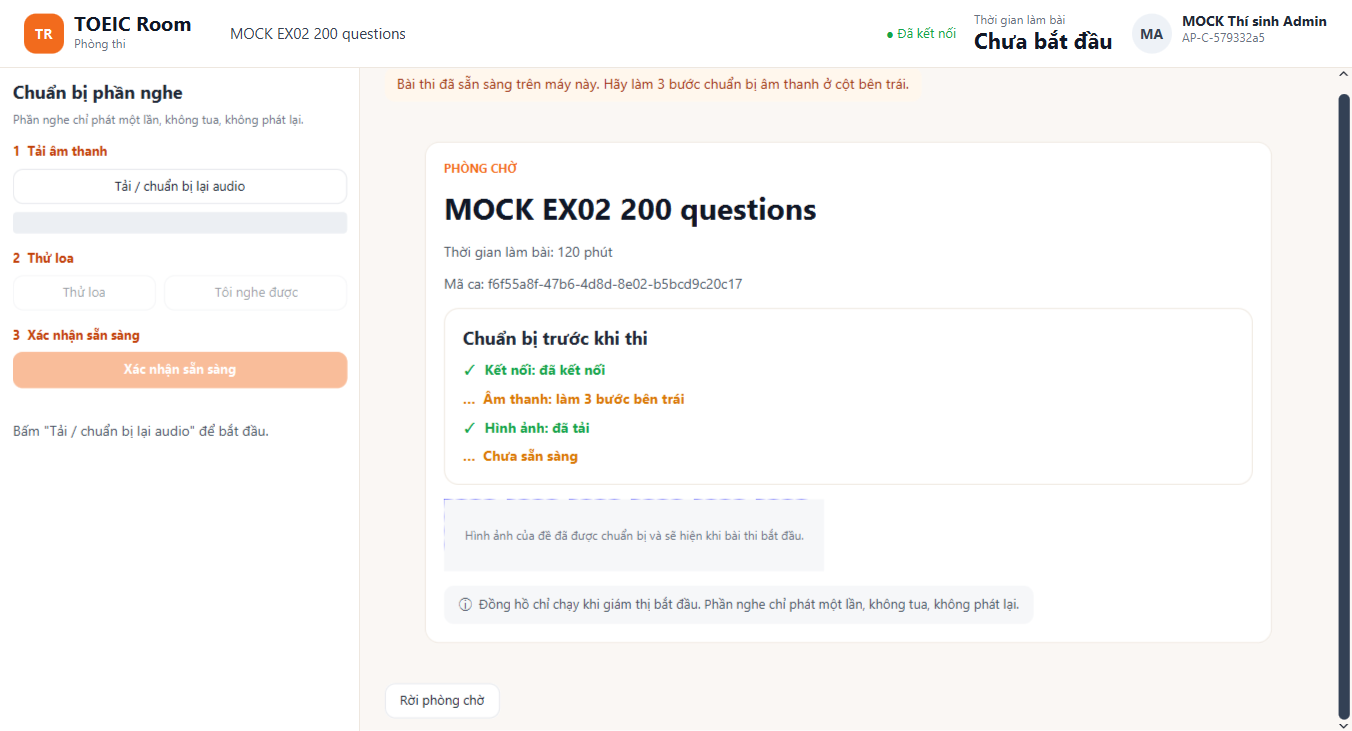
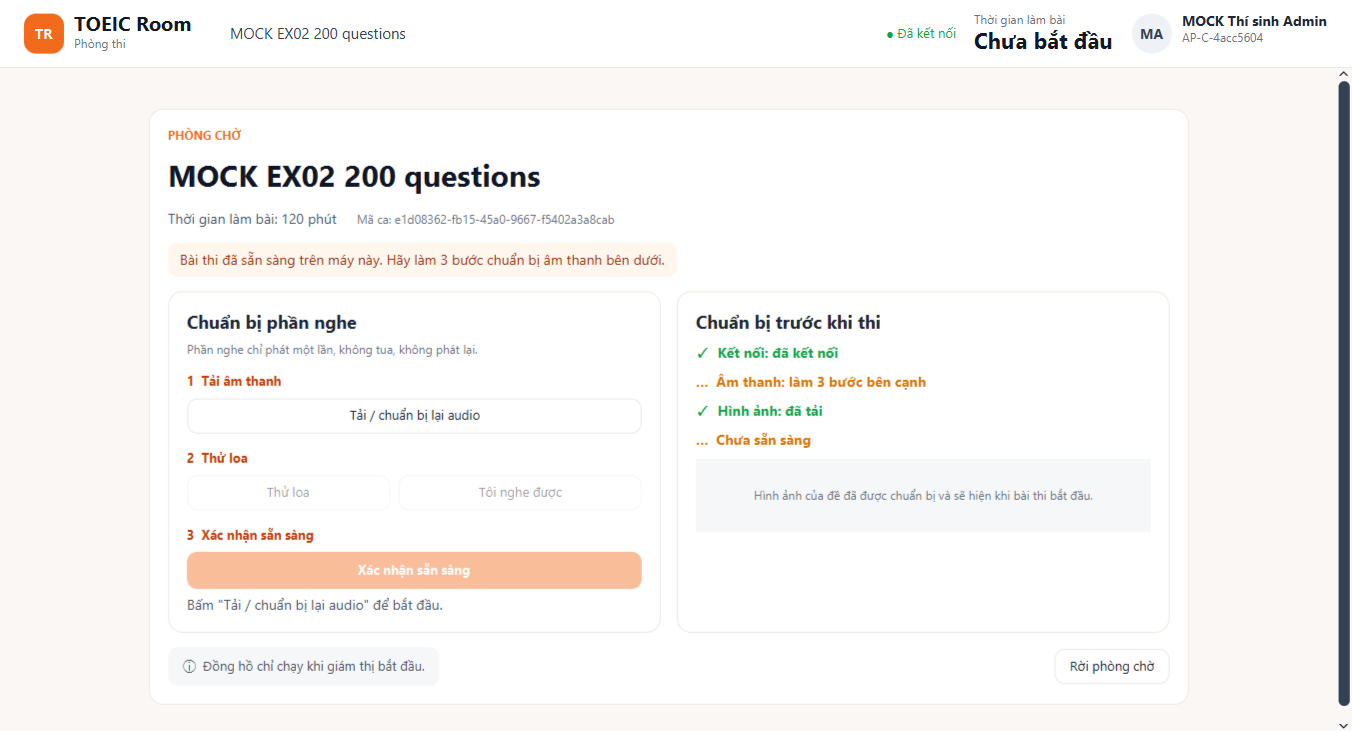
Centre the PIN entry and put audio steps inside the lobby card
The PIN screen is one centred column (steps, card, monitoring notice).
The lobby shows the three audio steps and the readiness checklist as two
equal cards, with the attempt status and the leave button inside the
lobby card, centred in the window. The image cover overhangs by 1px so
fractional scaling cannot show an image edge.

diff --git a/client/src/main/resources/toeic-room.css b/client/src/main/resources/toeic-room.css
@@ -161,12 +161,10 @@
 .toeic-room .room-check-wait { -fx-text-fill: #d97706; -fx-font-weight: 700; }
 .toeic-room .room-check-bad { -fx-text-fill: #dc2626; -fx-font-weight: 700; }
 .toeic-room .room-visual-cover { -fx-background-color: #f6f7f9; -fx-background-radius: 0; }
-.toeic-room .room-audio-panel { -fx-background-color: #ffffff; -fx-padding: 12; -fx-border-color: transparent #eee7df transparent transparent; }
-/* The app-wide dark stylesheet must not leak into the light room: viewport, buttons and progress stay light. */
-.toeic-room .room-audio-panel > .viewport, .toeic-room .room-audio-panel .vbox { -fx-background-color: #ffffff; }
-.toeic-room .room-audio-panel .button { -fx-background-color: #ffffff; -fx-border-color: #e5e7eb; -fx-border-radius: 10; -fx-text-fill: #1f2937; }
-.toeic-room .room-audio-panel .button.room-button-primary { -fx-background-color: #f26b1d; -fx-border-color: #f26b1d; -fx-text-fill: white; }
-.toeic-room .room-audio-panel .button:disabled { -fx-opacity: 0.45; }
-.toeic-room .room-audio-panel .progress-bar > .bar { -fx-background-color: #f26b1d; -fx-background-insets: 0; -fx-background-radius: 4; }
-.toeic-room .room-audio-panel .progress-bar > .track { -fx-background-color: #eceff3; -fx-background-radius: 4; }
+/* Audio preparation card inside the lobby; the app-wide dark stylesheet must not leak into it. */
+.toeic-room .room-audio-card .button { -fx-background-color: #ffffff; -fx-border-color: #e5e7eb; -fx-border-radius: 10; -fx-text-fill: #1f2937; -fx-pref-height: 38; }
+.toeic-room .room-audio-card .button.room-button-primary { -fx-background-color: #f26b1d; -fx-border-color: #f26b1d; -fx-text-fill: white; }
+.toeic-room .room-audio-card .button:disabled { -fx-opacity: 0.45; }
+.toeic-room .room-audio-card .progress-bar > .bar { -fx-background-color: #f26b1d; -fx-background-insets: 0; -fx-background-radius: 4; }
+.toeic-room .room-audio-card .progress-bar > .track { -fx-background-color: #eceff3; -fx-background-radius: 4; }
 .toeic-room .room-step-title { -fx-font-weight: 800; -fx-font-size: 13px; -fx-text-fill: #c2410c; -fx-padding: 8 0 0 0; }

diff --git a/client/src/main/resources/login/home.css b/client/src/main/resources/login/home.css
@@ -36,4 +36,10 @@
 .candidate-home .home-connection.home-online { -fx-text-fill: #118b68; }
 .candidate-home .home-connection.home-offline { -fx-text-fill: #b14f2b; }
 .candidate-home .home-section-title { -fx-font-size: 20px; -fx-font-weight: bold; -fx-text-fill: #102648; }
-.candidate-home #account-pin-input { -fx-font-size: 22px; -fx-max-width: 260; }
+.candidate-home .home-pin-card {
+    -fx-background-color: white; -fx-background-radius: 16; -fx-border-color: #e3e7ee; -fx-border-radius: 16;
+    -fx-padding: 32 36; -fx-effect: dropshadow(gaussian, rgba(16,38,72,0.08), 18, 0, 0, 4);
+}
+.candidate-home #account-pin-input { -fx-font-size: 28px; -fx-alignment: center; -fx-pref-height: 56; }
+.candidate-home #account-pin-enter { -fx-pref-height: 46; -fx-font-size: 16px; }
+.candidate-home .home-pin-status { -fx-text-fill: #607495; -fx-text-alignment: center; }

diff --git a/client/src/main/java/vn/edu/toeic/client/exam/rich/RichLobbyPane.java b/client/src/main/java/vn/edu/toeic/client/exam/rich/RichLobbyPane.java
@@ -4,6 +4,7 @@ import java.util.*;
 import java.util.concurrent.CompletableFuture;
 import javafx.geometry.Insets;
 import javafx.geometry.Pos;
+import javafx.scene.Node;
 import javafx.scene.control.Label;
 import javafx.scene.image.Image;
 import javafx.scene.image.ImageView;
@@ -25,6 +26,9 @@ final class RichLobbyPane extends VBox {
     private final Label audioRow = new Label(), visualRow = new Label(), serverRow = new Label(), connectionRow = new Label();
     private final Label waiting = new Label();
     private final TilePane slots = new TilePane(6, 6);
+    private final VBox audioSlot = new VBox(8);
+    private final VBox card = new VBox(14);
+    private final HBox footer = new HBox(12);
     private VisiblePulseGate gate;
 
     RichLobbyPane() {
@@ -34,14 +38,13 @@ final class RichLobbyPane extends VBox {
         title.setWrapText(true);
         meta.getStyleClass().add("room-instruction");
         identity.setId("room-preparation-identity");
-        identity.getStyleClass().add("room-instruction");
+        identity.getStyleClass().add("room-muted");
         identity.setWrapText(true);
         identity.setMinHeight(Region.USE_PREF_SIZE);
         Label overline = new Label("PHÒNG CHỜ");
         overline.getStyleClass().add("room-overline");
         VBox checklist = new VBox(10, label("Chuẩn bị trước khi thi", "room-card-title"), connectionRow, audioRow, visualRow, serverRow);
         for (Label row : List.of(connectionRow, audioRow, visualRow, serverRow)) { row.setWrapText(true); row.setMinHeight(Region.USE_PREF_SIZE); }
-        checklist.getStyleClass().add("room-card");
 
         slots.setPrefColumns(6);
         slots.setPrefTileWidth(56); slots.setPrefTileHeight(56);
@@ -52,12 +55,16 @@ final class RichLobbyPane extends VBox {
         coverText.setWrapText(true);
         StackPane stage = new StackPane(slots, cover, coverText);
         stage.setId("room-visual-stage");
-        stage.setMinSize(380, 72); stage.setMaxSize(380, 72);
+        stage.setMinSize(380, 72); stage.setMaxSize(Double.MAX_VALUE, 72);
         // Cắt mọi thứ ngoài khung để không pixel ảnh nào lọt ra ngoài màn che (kể cả ở góc).
         javafx.scene.shape.Rectangle clip = new javafx.scene.shape.Rectangle(380, 72);
+        clip.widthProperty().bind(stage.widthProperty());
+        clip.heightProperty().bind(stage.heightProperty());
         stage.setClip(clip);
         // Màn che phủ toàn bộ ảnh; ảnh vẫn visible/opacity 1 trong scene để đo hiển thị thật.
         cover.setMouseTransparent(true);
+        // Overhang by 1px so pixel snapping at fractional scales cannot leave an image edge showing; the clip trims it.
+        StackPane.setMargin(cover, new Insets(-1));
 
         waiting.getStyleClass().add("room-warning");
         waiting.setWrapText(true);
@@ -65,15 +72,41 @@ final class RichLobbyPane extends VBox {
         waiting.setMinHeight(Region.USE_PREF_SIZE);
         waiting.managedProperty().bind(waiting.textProperty().isNotEmpty());
         waiting.visibleProperty().bind(waiting.textProperty().isNotEmpty());
-        Label rules = new Label("ⓘ  Đồng hồ chỉ chạy khi giám thị bắt đầu. Phần nghe chỉ phát một lần, không tua, không phát lại.");
+        // The listening rule is already at the top of the audio card; here only the clock rule.
+        Label rules = new Label("ⓘ  Đồng hồ chỉ chạy khi giám thị bắt đầu.");
         rules.getStyleClass().add("room-info");
         rules.setWrapText(true);
         rules.setMinHeight(Region.USE_PREF_SIZE);
-        VBox card = new VBox(14, overline, title, meta, identity, checklist, stage, waiting, rules);
+        // Two equal cards side by side: what the candidate does (audio steps) and what is ready (checklist).
+        audioSlot.getChildren().add(label("Đang mở bài thi…", "room-muted"));
+        audioSlot.getStyleClass().addAll("room-card", "room-audio-card");
+        checklist.getChildren().addAll(stage, waiting);
+        checklist.getStyleClass().add("room-card");
+        HBox steps = new HBox(16, audioSlot, checklist);
+        for (VBox half : List.of(audioSlot, checklist)) { HBox.setHgrow(half, Priority.ALWAYS); half.setPrefWidth(480); half.setMaxWidth(Double.MAX_VALUE); }
+        HBox facts = new HBox(20, meta, identity);
+        facts.setAlignment(Pos.BASELINE_LEFT);
+        Region gap = new Region();
+        HBox.setHgrow(gap, Priority.ALWAYS);
+        footer.getChildren().addAll(rules, gap);
+        footer.setAlignment(Pos.CENTER_LEFT);
+        card.getChildren().addAll(overline, title, facts, steps, footer);
         card.getStyleClass().add("room-card");
-        card.setMaxWidth(900);
-        setAlignment(Pos.TOP_CENTER);
+        card.setMaxWidth(1040);
+        setAlignment(Pos.CENTER);
         getChildren().add(card);
+    }
+
+    /** The attempt's status line goes under the title and its leave button at the card's bottom-right. */
+    void chrome(Node status, Node leave) {
+        card.getChildren().add(3, status);
+        footer.getChildren().add(leave);
+    }
+
+    /** Puts the one audio preparation view inside the lobby; it keeps running after START when the lobby is gone. */
+    void audio(Node view) {
+        audioSlot.getChildren().setAll(view);
+        VBox.setVgrow(view, Priority.ALWAYS);
     }
 
     void preparation(AttemptPreparation preparation) {
@@ -91,7 +124,7 @@ final class RichLobbyPane extends VBox {
     void audio(AudioPreparation.Snapshot state, boolean ready) {
         row(audioRow, ready, state.phase() == AudioPreparation.Phase.ERROR,
                 ready ? "Âm thanh: đã sẵn sàng" : state.phase() == AudioPreparation.Phase.ERROR
-                        ? "Âm thanh: chưa chuẩn bị xong — làm lại các bước bên trái" : "Âm thanh: làm 3 bước bên trái");
+                        ? "Âm thanh: chưa chuẩn bị xong — làm lại các bước bên cạnh" : "Âm thanh: làm 3 bước bên cạnh");
     }
 
     void visual(VisualReadyCoordinator.Snapshot state) {

diff --git a/client/src/main/java/vn/edu/toeic/client/CandidateHomePane.java b/client/src/main/java/vn/edu/toeic/client/CandidateHomePane.java
@@ -11,8 +11,9 @@ import javafx.scene.layout.*;
 
 /** Candidate portal presentation. Session data and entry actions still come from the server adapters. */
 final class CandidateHomePane extends BorderPane {
+    /** body is the role-specific content: the legacy tab pane, or the centred PIN card of the ACCOUNT_PIN entry. */
     CandidateHomePane(String displayName, String username, Label connection, Label availability,
-                      TabPane tabs, Button logout) {
+                      javafx.scene.Node body, Button logout) {
         getStyleClass().add("candidate-home");
         getStylesheets().add(Objects.requireNonNull(getClass().getResource("/login/home.css")).toExternalForm());
         Label brand = text("TOEIC Room", "home-brand");
@@ -53,19 +54,34 @@ final class CandidateHomePane extends BorderPane {
         availability.managedProperty().bind(availability.textProperty().isNotEmpty());
         availability.visibleProperty().bind(availability.textProperty().isNotEmpty());
         Label instruction = text("1  Vào phòng thi     →     2  Chuẩn bị âm thanh     →     3  Chờ giám thị bắt đầu", "home-instruction");
-        tabs.getStyleClass().add("home-tabs");
-        VBox content = new VBox(12, availability, instruction, tabs);
+        Label usbNotice = null;
         if (Boolean.getBoolean("toeic.monitoring.signal-experiment-enabled")
                 && Boolean.getBoolean("toeic.monitoring.usb-enabled")) {
             // Required notice before observation starts: short, but it still says what is observed and when it stops.
-            Label usbNotice = text("ⓘ  Trong phiên thi, ứng dụng ghi nhận các ứng dụng đang mở, việc cắm/rút USB lưu trữ và việc "
+            usbNotice = text("ⓘ  Trong phiên thi, ứng dụng ghi nhận các ứng dụng đang mở, việc cắm/rút USB lưu trữ và việc "
                     + "rời khỏi cửa sổ thi để báo cho giám thị. Không đọc nội dung hay số serial của USB; dừng khi bạn rời phòng "
                     + "thi hoặc đăng xuất.", "home-availability");
             usbNotice.setId("candidate-usb-notice");
-            content.getChildren().add(2, usbNotice);
+        }
+        VBox content;
+        if (body instanceof TabPane tabs) {
+            tabs.getStyleClass().add("home-tabs");
+            content = new VBox(12, availability, instruction, body);
+            if (usbNotice != null) content.getChildren().add(2, usbNotice);
+            VBox.setVgrow(body, Priority.ALWAYS);
+        } else {
+            // PIN entry: one column in the middle of the screen, the steps above the card and the notice under it.
+            content = new VBox(18, availability, instruction, body);
+            if (usbNotice != null) content.getChildren().add(usbNotice);
+            for (Label line : java.util.Arrays.asList(availability, usbNotice)) {
+                if (line == null) continue;
+                line.setMaxWidth(520); line.setPrefWidth(520);
+                line.setTextAlignment(javafx.scene.text.TextAlignment.CENTER);
+            }
+            content.setAlignment(javafx.geometry.Pos.CENTER);
+            content.setFillWidth(false);
         }
         content.setPadding(new Insets(24));
-        VBox.setVgrow(tabs, Priority.ALWAYS);
         content.setMinWidth(0);
         HBox.setHgrow(content, Priority.ALWAYS);
         setCenter(new HBox(hero, content));

diff --git a/client/src/main/java/vn/edu/toeic/client/ToeicClientApplication.java b/client/src/main/java/vn/edu/toeic/client/ToeicClientApplication.java
@@ -181,15 +181,19 @@ public final class ToeicClientApplication extends Application {
         pin.setTextFormatter(new javafx.scene.control.TextFormatter<String>(change->change.getControlNewText().matches("[0-9]{0,5}")?change:null));
         Button enter=new Button("Vào phòng");enter.setId("account-pin-enter");enter.getStyleClass().add("home-primary");
         Label status=new Label("Nhập PIN 5 số do giám thị cung cấp.");status.setId("account-pin-status");status.setWrapText(true);
+        status.getStyleClass().add("home-pin-status");
         Label joinTitle=new Label("Vào phòng thi");joinTitle.getStyleClass().add("home-section-title");
-        VBox fields=new VBox(14,joinTitle,pin,enter,status);fields.setPadding(new javafx.geometry.Insets(24));
+        pin.setMaxWidth(Double.MAX_VALUE);enter.setMaxWidth(Double.MAX_VALUE);
+        // One small card in the middle of the content area: the only thing to do here is type the PIN.
+        VBox card=new VBox(16,joinTitle,pin,enter,status);card.getStyleClass().add("home-pin-card");
+        card.setAlignment(javafx.geometry.Pos.CENTER);card.setMaxWidth(420);card.setMaxHeight(javafx.scene.layout.Region.USE_PREF_SIZE);
         if(LegacyUi.enabled()) {
             Button legacy=new Button("Ca thi được phân công trước đây");legacy.setOnAction(e->showRoleScene(stage,serverUrl,account));
-            fields.getChildren().add(legacy);
+            card.getChildren().add(legacy);
         }
-        Tab tab=new Tab("Vào phòng",fields);tab.setClosable(false);TabPane tabs=new TabPane(tab);
+        javafx.scene.layout.StackPane centred=new javafx.scene.layout.StackPane(card);
         Button logout=new Button("Đăng xuất");logout.setOnAction(e->{releaseConnectionView();stage.setScene(loginScene(stage));});
-        var root=new CandidateHomePane(account.user().displayName(),account.user().username(),new Label("Đã đăng nhập"),new Label(""),tabs,logout);
+        var root=new CandidateHomePane(account.user().displayName(),account.user().username(),new Label("Đã đăng nhập"),new Label(""),centred,logout);
         stage.setScene(applyStyles(new Scene(root,1366,820)));
         Runnable submit=()->{
             if(enter.isDisabled())return;

diff --git a/client/src/main/java/vn/edu/toeic/client/exam/rich/RichAttemptView.java b/client/src/main/java/vn/edu/toeic/client/exam/rich/RichAttemptView.java
@@ -89,10 +89,14 @@ public final class RichAttemptView extends BorderPane implements AutoCloseable {
         Button leave = new Button("Rời phòng chờ");
         leave.getStyleClass().add("room-button-secondary");
         leave.setOnAction(event -> leave());
-        VBox center = new VBox(12, status, lobby, leave);
+        lobby.chrome(status, leave);
+        VBox center = new VBox(lobby);
+        center.setAlignment(javafx.geometry.Pos.CENTER);
         center.setPadding(new Insets(12, 24, 12, 24));
         ScrollPane scroll = new ScrollPane(center);
         scroll.setFitToWidth(true);
+        // Fills the viewport so the lobby card sits in the middle; a taller lobby still scrolls.
+        scroll.setFitToHeight(true);
         scroll.getStyleClass().add("room-scroll");
         setCenter(scroll);
         status.setText("Đang mở bài thi…");
@@ -124,14 +128,10 @@ public final class RichAttemptView extends BorderPane implements AutoCloseable {
             writer = granted.writerEpoch();
             audio = audioFactory.create(writer, source::listeningApi, this::awaitPlay);
             audio.onChanged(this::audioChanged);
-            ScrollPane audioPanel = new ScrollPane(audio);
-            audioPanel.setFitToWidth(true);
-            audioPanel.setPrefWidth(360);
-            audioPanel.getStyleClass().add("room-audio-panel");
-            setLeft(audioPanel);
+            lobby.audio(audio);
             visual = new VisualReadyCoordinator<>(api, images, attemptId, writer, () -> audio.audioReady().filter(c -> c.writerEpoch() == writer).isPresent(),
                     lobby::prepareImages, Platform::runLater, this::visualChanged);
-            status.setText("Bài thi đã sẵn sàng trên máy này. Hãy làm 3 bước chuẩn bị âm thanh ở cột bên trái.");
+            status.setText("Bài thi đã sẵn sàng trên máy này. Hãy làm 3 bước chuẩn bị âm thanh bên dưới.");
             visual.start();
         }));
     }

diff --git a/client/src/main/java/vn/edu/toeic/client/audio/AudioPreparationView.java b/client/src/main/java/vn/edu/toeic/client/audio/AudioPreparationView.java
@@ -79,6 +79,8 @@ public final class AudioPreparationView extends VBox implements AutoCloseable {
         setSpacing(8);
         attempts.getItems().setAll(scope.stream().sorted().toList()); attempts.getSelectionModel().selectFirst();
         status.setWrapText(true); connection.setWrapText(true); progress.setMaxWidth(Double.MAX_VALUE);
+        progress.managedProperty().bind(progress.visibleProperty());
+        connection.managedProperty().bind(connection.textProperty().isNotEmpty());
         AudioFiles audioFiles=new AudioFiles(cache.resolve("files"));
         preparation = new AudioPreparation(api, audioFiles, cache.resolve("speaker"), ignored -> queueRender());
         playback=new ListeningPlaybackPane(listeningApi,audioFiles,new ListeningPlaybackJournal(cache.resolve("playback-started")),preparation,scope,realtime);
@@ -134,6 +136,7 @@ public final class AudioPreparationView extends VBox implements AutoCloseable {
         heard.setDisable(!connected || phase != AudioPreparation.Phase.AWAITING_CONFIRMATION);
         ready.setDisable(!connected || phase != AudioPreparation.Phase.SPEAKER_CONFIRMED);
         progress.setProgress(state.progress()); status.setText(audioText(state));
+        progress.setVisible(phase == AudioPreparation.Phase.PREPARING); // an empty or full bar says nothing
         connection.setText(connected ? "" : "Mất kết nối. Đang thử kết nối lại; các bước chuẩn bị tạm khóa.");
         for (Runnable listener : List.copyOf(changeListeners)) listener.run();
     }
